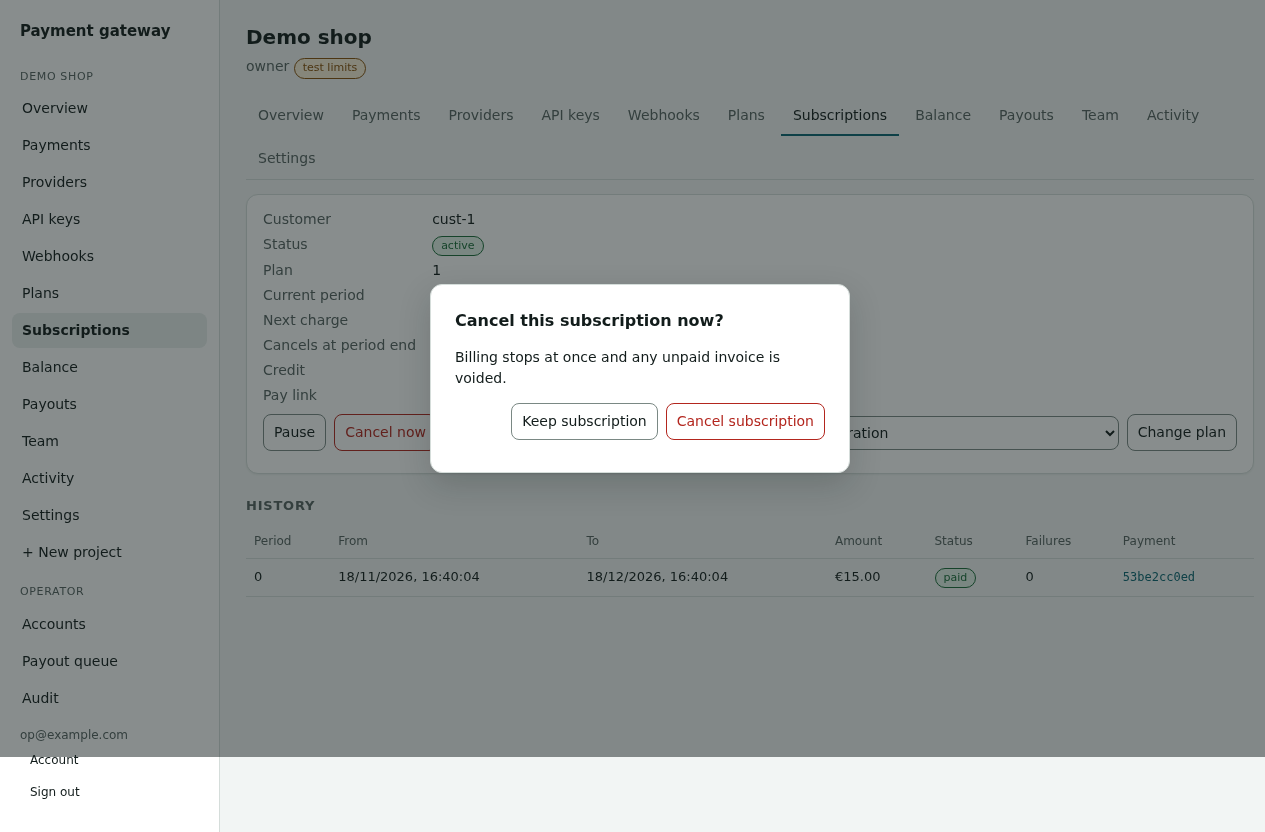
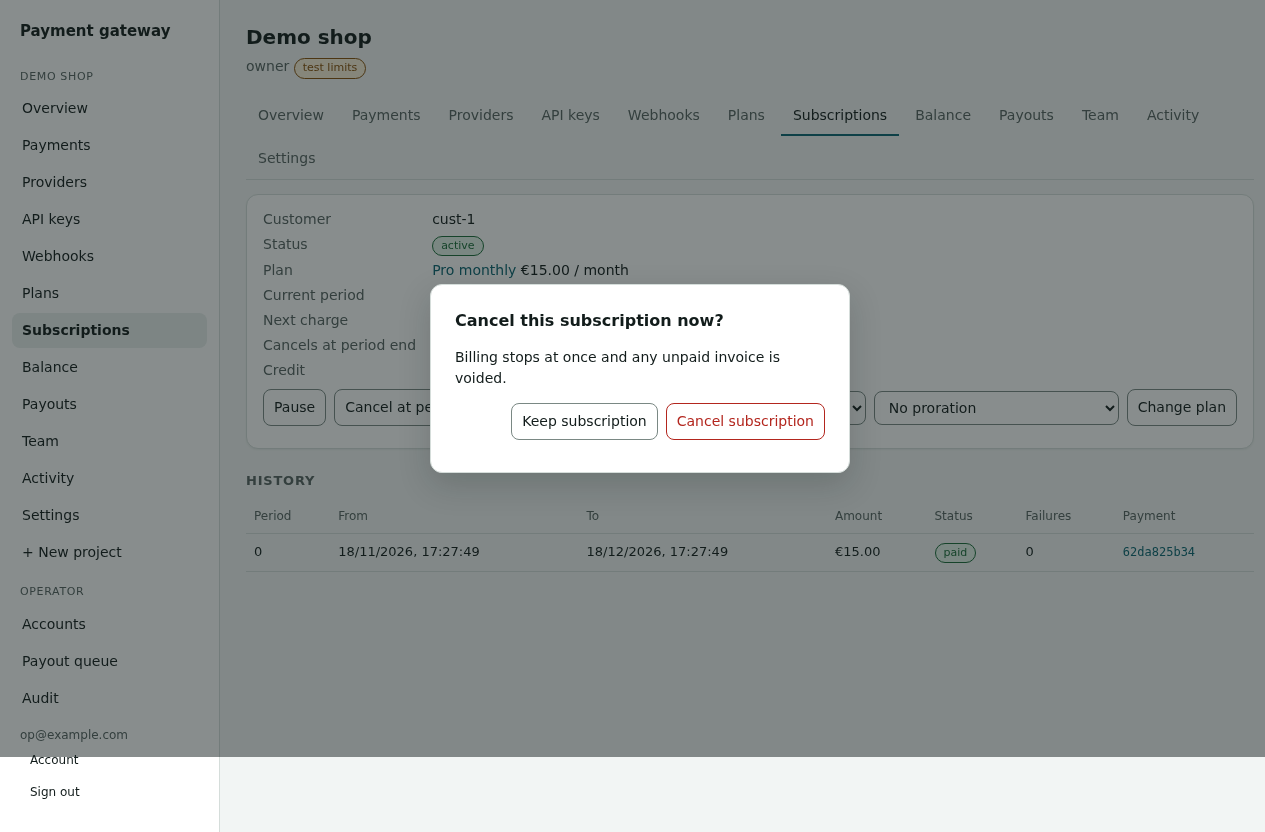
Subscription detail shows plan, plan select, hides empty pay link

diff --git a/web/console/billing.js b/web/console/billing.js
@@ -74,7 +74,10 @@ function subscriptionDetail(pid, id) {
   projectShell(pid, "subscriptions", function (p, body) {
     var box = el("div"); body.appendChild(box);
     function load() {
-      api("GET", "/projects/" + pid + "/subscriptions/" + id).then(function (s) {
+      Promise.all([api("GET", "/projects/" + pid + "/subscriptions/" + id), api("GET", "/projects/" + pid + "/plans")]).then(function (res) {
+        var s = res[0], allPlans = res[1];
+        var current = allPlans.filter(function (x) { return x.id === s.plan_id; })[0];
+        var others = allPlans.filter(function (x) { return x.active && x.id !== s.plan_id; });
         var out = el("div");
         var run = function (action, payload) {
           return api("POST", "/projects/" + pid + "/subscriptions/" + id + "/" + action, payload || {}).then(load).catch(function (e) { msg(out, e.message, true); });
@@ -93,10 +96,10 @@ function subscriptionDetail(pid, id) {
           } }));
         }
         if (s.status === "active" || s.status === "trialing") {
-          var np = el("input", { type: "number", placeholder: "new plan id" });
+          var np = el("select", { "aria-label": "New plan" }, [el("option", { value: "", text: others.length ? "Choose a plan" : "No other active plans" })].concat(others.map(function (x) { return el("option", { value: String(x.id), text: x.name + ", " + fmtAmount(x.amount, x.currency) + " / " + (x.interval_count > 1 ? x.interval_count + " " : "") + x.interval }); })));
           var pr = el("select", {}, [el("option", { value: "none", text: "No proration" }), el("option", { value: "prorate", text: "Prorate remaining days" })]);
           actions.appendChild(np); actions.appendChild(pr);
-          actions.appendChild(el("button", { text: "Change plan", onclick: function () { run("change-plan", { plan_id: Number(np.value), proration: pr.value }); } }));
+          actions.appendChild(el("button", { text: "Change plan", onclick: function () { if (!np.value) { msg(out, "Choose a plan first", true); return; } run("change-plan", { plan_id: Number(np.value), proration: pr.value }); } }));
         }
         var head = ["Period", "From", "To", "Amount", "Status", "Failures", "Payment"];
         var hist = s.periods.length ? el("table", {}, [el("tr", {}, head.map(function (h) { return el("th", { text: h }); }))].concat(s.periods.map(function (r) {
@@ -107,13 +110,12 @@ function subscriptionDetail(pid, id) {
           el("div", { class: "card" }, [el("dl", { class: "kv" }, [
             el("dt", { text: "Customer" }), el("dd", { text: s.customer_ref }),
             el("dt", { text: "Status" }), el("dd", {}, [subPill(s.status)]),
-            el("dt", { text: "Plan" }), el("dd", { text: String(s.plan_id) }),
+            el("dt", { text: "Plan" }), el("dd", {}, current ? [el("a", { href: "#/p/" + pid + "/plans", text: current.name }), " ", moneyEl(current.amount, current.currency), " / " + (current.interval_count > 1 ? current.interval_count + " " : "") + current.interval] : [el("a", { href: "#/p/" + pid + "/plans", text: "Plan " + s.plan_id })]),
             el("dt", { text: "Current period" }), el("dd", { text: when(s.current_period_start) + " to " + when(s.current_period_end) }),
             el("dt", { text: "Next charge" }), el("dd", { text: when(s.next_charge) || "none" }),
             el("dt", { text: "Cancels at period end" }), el("dd", { text: s.cancel_at_period_end ? "yes" : "no" }),
-            el("dt", { text: "Credit" }), el("dd", {}, [moneyEl(s.credit, (s.periods[0] || {}).currency || "EUR")]),
-            el("dt", { text: "Pay link" }), el("dd", { class: "mono", text: s.pay_url || "" })
-          ]), actions, out]),
+            el("dt", { text: "Credit" }), el("dd", {}, [moneyEl(s.credit, current ? current.currency : "EUR")]),
+          ].concat(s.pay_url ? [el("dt", { text: "Pay link" }), el("dd", {}, [el("a", { class: "mono", href: s.pay_url, text: s.pay_url })])] : [])), actions, out]),
           el("h3", { text: "History" }), hist
         );
       }).catch(function (e) { msg(box, e.message, true); });
